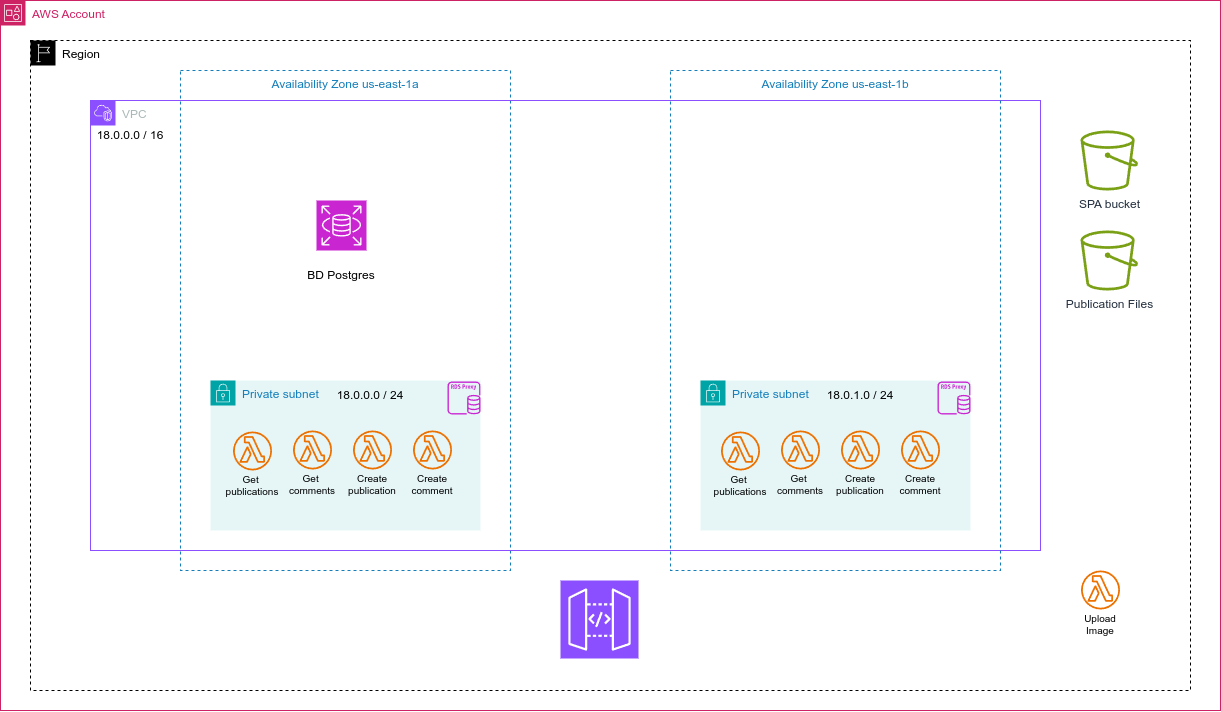
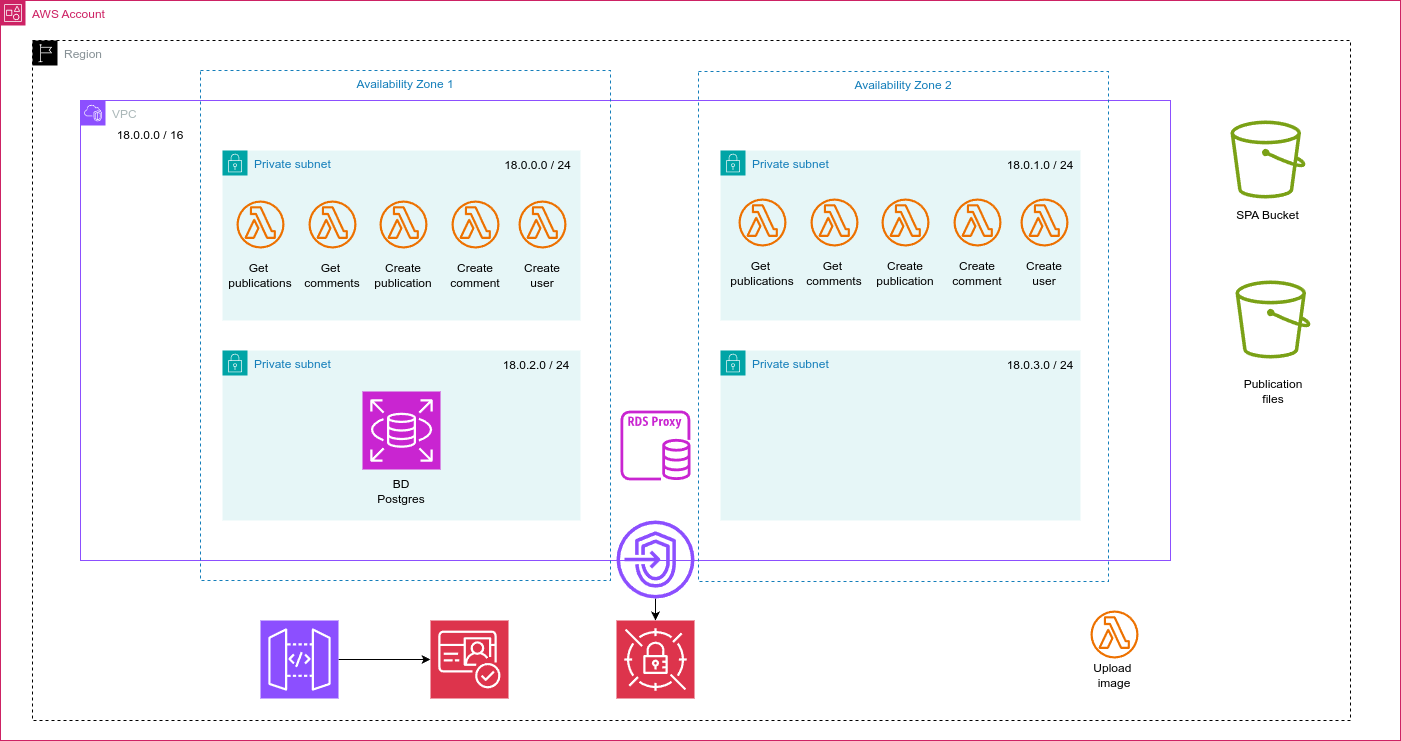
Improvements for README and Architecture.png

diff --git a/backend/create_user.py b/backend/create_user.py
@@ -15,7 +15,7 @@ def lambda_handler(event, context):
         try:
             email = event.get('request').get('userAttributes').get('email')
             username = event.get('request').get('userAttributes').get('preferred_username') 
-            
+
             try:
                 user = User(
                     user_id=str(uuid.uuid4()),
@@ -25,11 +25,7 @@ def lambda_handler(event, context):
                 session.add(user)
                 session.commit()
             except Exception as e:
-                logger.error("Error creating user: there was already a user with the same email")
-                return {
-                    'statusCode': 500,
-                    'body': 'There was already a user with the same username or email'
-                }
+                logger.error(e)
 
             # logger.info(f'User: {user.user_id}')
             session.close()

diff --git a/README.md b/README.md
@@ -3,6 +3,7 @@
 
 ## Tabla de contenidos
 - [Introducción](#introducción)
+- [Arquitectura](#arquitectura)
 - [Pre-requisitos](#pre-requisitos)
 - [Ejecución](#ejecución)
 - [Módulos](#módulos)
@@ -22,6 +23,9 @@ El backend se basa en una serie de Lambdas de AWS escritas en Python, y se utili
 Las imagenes de las publicaciones se guardan en un bucket de S3, y pueden ser cargadas utilizando una Lambda Regional.
 
 Toda la autenticación se realiza utilizando Cognito.
+
+## Arquitectura
+![Arquitectura](architecture/Architecture.png)
 
 ## Requisitos
 - Terraform v1.8.5 o superior
@@ -48,6 +52,7 @@ Si llegara a fallar por algún motivo se recomienda volver a correr el paso 4.
 ### Internos
 - `dockerized_lambdas`: crea las lambdas que utilizan docker. Para esto, requiere sus nombres, subnets en las que se encuentran, variables de entorno, vpc, rol y id de la cuenta de Amazon. Como output, devuelve el security group asociado a las lambdas y el objeto asociado a cada una de ellas.
 - `s3`: crea un bucket. Para esto, requiere su nombre, un flag para saber si el bucket se utilizará para hostear los archivos de la SPA, y si tiene versionado. Como output, devuelve el nombre del bucket, su id y el endpint para acceder al sitio web en caso de alojar sus archivos. 
+Observación: debido a que CloudFront no está habilitado en el LAB, no se pudieron tomar medidas para mejorar la seguridad y el cacheo de los archivos de los buckets, y toda su información es pública. Esto fue debidamente discutido, y es una decisión de diseño frente a las limtaciones del LAB.
 - `zipped_lambda`: crea una lambda utilizando un archivo .zip. Para esto, requiere su nombre, variables de entorno, rol y el hash del código fuente. Como output devuelve el nombre, la url y el arn de la función.
 ### Externos
 - `vpc`: crea una VPC. https://registry.terraform.io/modules/terraform-aws-modules/vpc/aws/latest

diff --git a/backend/README.md b/backend/README.md
@@ -2,19 +2,9 @@
 
 ### Developed with Python 3.11 and AWS Lambda 
 
-## Test locally:
+## Test locally (possibly deprecated):
 ```bash
 docker compose up --watch
-```
-
-## Deploy all lambdas (docker)
-```bash
-./deploy_all.sh [aws_id]
-```
-
-## Deploy a single lambda (docker)
-```bash
-./deploy.sh [lambda_name] [aws_id]
 ```
 
 ## Deploy `upload_image` lambda

diff --git a/frontend/README.md b/frontend/README.md
@@ -3,15 +3,9 @@
 ### Developed with [SvelteKit](https://kit.svelte.dev/)
 
 
-## Running the project
+## Running the project locally
 
 ```bash
 npm install
 npm run dev
-```
-
-## Building and deploying the project
-
-```bash
-./deploy_frontend.sh [bucket_name]
 ```
